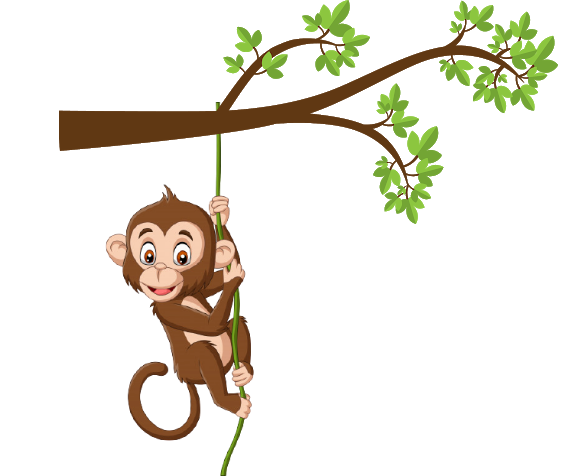
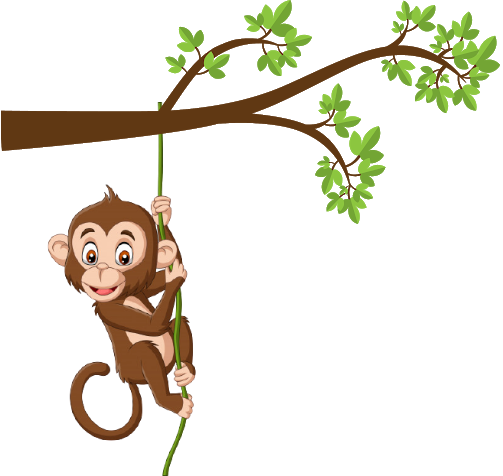
Edited login page design

Changed region(s): [[0.0, 0.0, 0.7753, 1.0], [0.6859, 0.0, 1.0, 0.2353]]

diff --git a/src/Components/Screens/Login.js b/src/Components/Screens/Login.js
@@ -79,7 +79,7 @@ margin-top: 20px;
 const Background = styled.div`
   background-image: linear-gradient(#0b8835, #597e87);
   min-height: 80vh;
-  min-width: 80%;
+  min-width: 60%;
   border-radius: 50px;
   display: flex;
   flex-direction: column;
@@ -93,6 +93,7 @@ const Span = styled.span`
   font-size: 18px;
   font-weight: 400;
   letter-spacing: 2px;
+  margin-left: 10px;
 `;
 
 const Input = styled.input.attrs((props) => ({
@@ -100,9 +101,22 @@ const Input = styled.input.attrs((props) => ({
   type: props.type,
   placeholder: props.placeholder,
 }))`
-  border-radius: 5px;
-  border: none;
+  border-radius: 41px;
+  padding: 2px;
+  border: 3px solid #707070;
   width: 100%;
+  text-align: left;
+  padding-left: 15px;
+  background-color: #C9E3D2;
+  box-shadow: 0px 1px 6px 5px rgba(0, 0, 0, 0.2);
+  margin-bottom: 5px;
+
+  &:focus {
+      outline: none;
+      
+
+  }
+
 `;
 
 const FormButtonGroup = styled.div`
@@ -140,17 +154,17 @@ const styles = {
     color: "white"
   },
   monkeyTree: {
-    height: "40%",
+    height: "48%",
     position: "absolute",
-    top: "15%",
-    left: "7.75%",
+    top: "13%",
+    left: "19.90%",
     zIndex: 1,
   },
   Tree: {
     height: "35%",
     position: "absolute",
-    bottom: "9%",
-    right: "12%",
+    bottom: "10%",
+    right: "19%",
     zIndex: 1,
   },
 };
